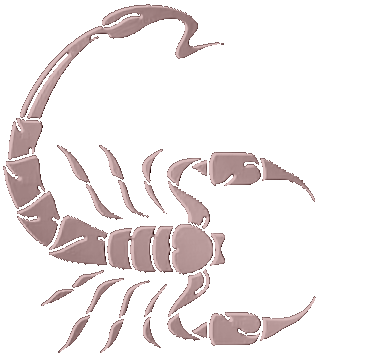
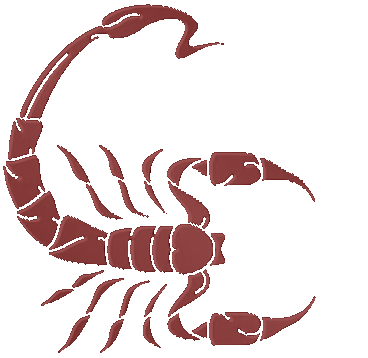
x

diff --git a/src/styles_signs.css b/src/styles_signs.css
@@ -630,14 +630,14 @@
   width: 39px;
   top: 1458px;
   left: 636px;
-  background-color: var(--capricorn);
+  background-color: var(--sagittarus);
 }
 #epsilonLyrae {
   height: 50px;
   width: 50px;
   top: 1363px;
   left: 624px;
-  background-color: var(--capricorn);
+  background-color: var(--sagittarus);
 }
 /* -------scutum----- */
 /* -------scutum----- */
@@ -654,14 +654,14 @@
   width: 44px;
   top: 1594px;
   left: 664px;
-  background-color: var(--sagittarus);
+  background-color: var(--scorpio);
 }
 #deltaScuti {
   height: 40px;
   width: 40px;
   top: 1618px;
   left: 829px;
-  background-color: var(--sagittarus);
+  background-color: var(--scorpio);
 }
 #gammaScuti {
   height: 41px;
@@ -670,3 +670,204 @@
   left: 703px;
   background-color: var(--sagittarus);
 }
+/* ----cauda serpens */
+/* ----cauda serpens */
+/* ----cauda serpens */
+#iotaSerpentis {
+  height: 51px;
+  width: 51px;
+  top: 1399px;
+  left: 756px;
+  background-color: var(--sagittarus);
+}
+#xiSerpentis {
+  height: 60px;
+  width: 60px;
+  top: 1473px;
+  left: 848px;
+  background-color: var(--scorpio);
+}
+#muSerpentis {
+  height: 57px;
+  width: 57px;
+  top: 1605px;
+  left: 917px;
+  background-color: var(--scorpio);
+}
+#rhoSerpentis {
+  height: 46px;
+  width: 46px;
+  top: 1672px;
+  left: 927px;
+  background-color: var(--scorpio);
+}
+#sigmaSerpentis {
+  height: 61px;
+  width: 61px;
+  top: 1624px;
+  left: 989px;
+  background-color: var(--libra);
+}
+/* ----draco----- */
+/* ----draco----- */
+/* ----draco----- */
+#etamin {
+  height: 48px;
+  width: 48px;
+  top: 1540px;
+  left: 1017px;
+  background-color: var(--libra);
+}
+#rastaban {
+  height: 49px;
+  width: 49px;
+  top: 1530px;
+  left: 1087px;
+  background-color: var(--libra);
+}
+#altais {
+  height: 27px;
+  width: 27px;
+  top: 1483px;
+  left: 1090px;
+  background-color: var(--libra);
+}
+#eldib {
+  height: 27px;
+  width: 27px;
+  top: 1474px;
+  left: 1029px;
+  background-color: var(--libra);
+}
+#athebyne {
+  height: 44px;
+  width: 44px;
+  top: 1291px;
+  left: 909px;
+  background-color: var(--libra);
+}
+#thuban {
+  height: 52px;
+  width: 52px;
+  top: 1246px;
+  left: 983px;
+  background-color: var(--libra);
+}
+#tyl {
+  height: 39px;
+  width: 39px;
+  top: 1326px;
+  left: 1088px;
+  background-color: var(--libra);
+}
+#gianfar {
+  height: 56px;
+  width: 56px;
+  top: 1365px;
+  left: 1231px;
+  background-color: var(--virgo);
+}
+#grumium {
+  height: 59px;
+  width: 59px;
+  top: 1162px;
+  left: 1322px;
+  background-color: var(--leo);
+}
+#kuma {
+  height: 59px;
+  width: 59px;
+  top: 1015px;
+  left: 1294px;
+  background-color: var(--leo);
+}
+#arrakis {
+  height: 58px;
+  width: 58px;
+  top: 935px;
+  left: 1313px;
+  background-color: var(--leo);
+}
+/* ----ursa major---- */
+/* ----ursa major---- */
+/* ----ursa major---- */
+#dubhe {
+  height: 61px;
+  width: 61px;
+  top: 661px;
+  left: 945px;
+  background-color: var(--taurus);
+}
+#merak {
+  height: 59px;
+  width: 59px;
+  top: 721px;
+  left: 978px;
+  background-color: var(--taurus);
+}
+#phad {
+  height: 53px;
+  width: 53px;
+  top: 834px;
+  left: 1114px;
+  background-color: var(--gemini);
+}
+#megrez {
+  height: 57px;
+  width: 57px;
+  top: 786px;
+  left: 1148px;
+  background-color: var(--gemini);
+}
+#alioth {
+  height: 45px;
+  width: 45px;
+  top: 698px;
+  left: 1036px;
+  background-color: var(--taurus);
+}
+#mizar {
+  height: 46px;
+  width: 46px;
+  top: 910px;
+  left: 1137px;
+  background-color: var(--gemini);
+}
+#alkaid {
+  height: 59px;
+  width: 59px;
+  top: 935px;
+  left: 1190px;
+  background-color: var(--gemini);
+}
+#tania {
+  height: 65px;
+  width: 65px;
+  top: 685px;
+  left: 1260px;
+  background-color: var(--gemini);
+}
+#alulaBorealis {
+  height: 47px;
+  width: 47px;
+  top: 646px;
+  left: 1159px;
+  background-color: var(--gemini);
+}
+#alulaAustralis {
+  height: 44px;
+  width: 44px;
+  top: 602px;
+  left: 1052px;
+  background-color: var(--taurus);
+}
+/* -----camelopardus---- */
+/* -----camelopardus---- */
+/* -----camelopardus---- */
+/* #alulaAustralis {
+  height: 44px;
+  width: 44px;
+  top: 602px;
+  left: 1052px;
+  background-color: var(--taurus);
+} */

diff --git a/src/template.html b/src/template.html
@@ -100,6 +100,7 @@
         <div class="star" id="zetaSerpentis"></div>
         <div class="star" id="etaSerpentis"></div>
         <div class="star" id="thetaSerpentis"></div>
+
         <!-- berenices -->
         <div class="star" id="betaBerenices"></div>
         <div class="star" id="alphaBerenices"></div>
@@ -164,6 +165,35 @@
         <div class="star" id="betaScuti"></div>
         <div class="star" id="deltaScuti"></div>
         <div class="star" id="gammaScuti"></div>
+        <!-- serpens cauda -->
+        <div class="star" id="iotaSerpentis"></div>
+        <div class="star" id="xiSerpentis"></div>
+        <div class="star" id="muSerpentis"></div>
+        <div class="star" id="rhoSerpentis"></div>
+        <div class="star" id="sigmaSerpentis"></div>
+        <!-- draco -->
+        <div class="star" id="etamin"></div>
+        <div class="star" id="rastaban"></div>
+        <div class="star" id="altais"></div>
+        <div class="star" id="eldib"></div>
+        <div class="star" id="athebyne"></div>
+        <div class="star" id="thuban"></div>
+        <div class="star" id="tyl"></div>
+        <div class="star" id="gianfar"></div>
+        <div class="star" id="grumium"></div>
+        <div class="star" id="kuma"></div>
+        <div class="star" id="arrakis"></div>
+        <!-- ursa major -->
+        <div class="star" id="dubhe"></div>
+        <div class="star" id="merak"></div>
+        <div class="star" id="phad"></div>
+        <div class="star" id="megrez"></div>
+        <div class="star" id="alioth"></div>
+        <div class="star" id="mizar"></div>
+        <div class="star" id="alkaid"></div>
+        <div class="star" id="tania"></div>
+        <div class="star" id="alulaBorealis"></div>
+        <div class="star" id="alulaAustralis"></div>
       </div>
 
       <!-- <dialog></dialog> -->

diff --git a/src/styles.css b/src/styles.css
@@ -6,7 +6,7 @@
 /* @import url('https://fonts.googleapis.com/css2?family=Montserrat:ital,wght@0,100..900;1,100..900&family=Rye&display=swap'); */
 
 :root {
-  --aries: #ff010130;
+  --aries: #ff000048;
   --taurus: #4b532040;
   --gemini: #5eff0030;
   --cancer: #559fbd40;
